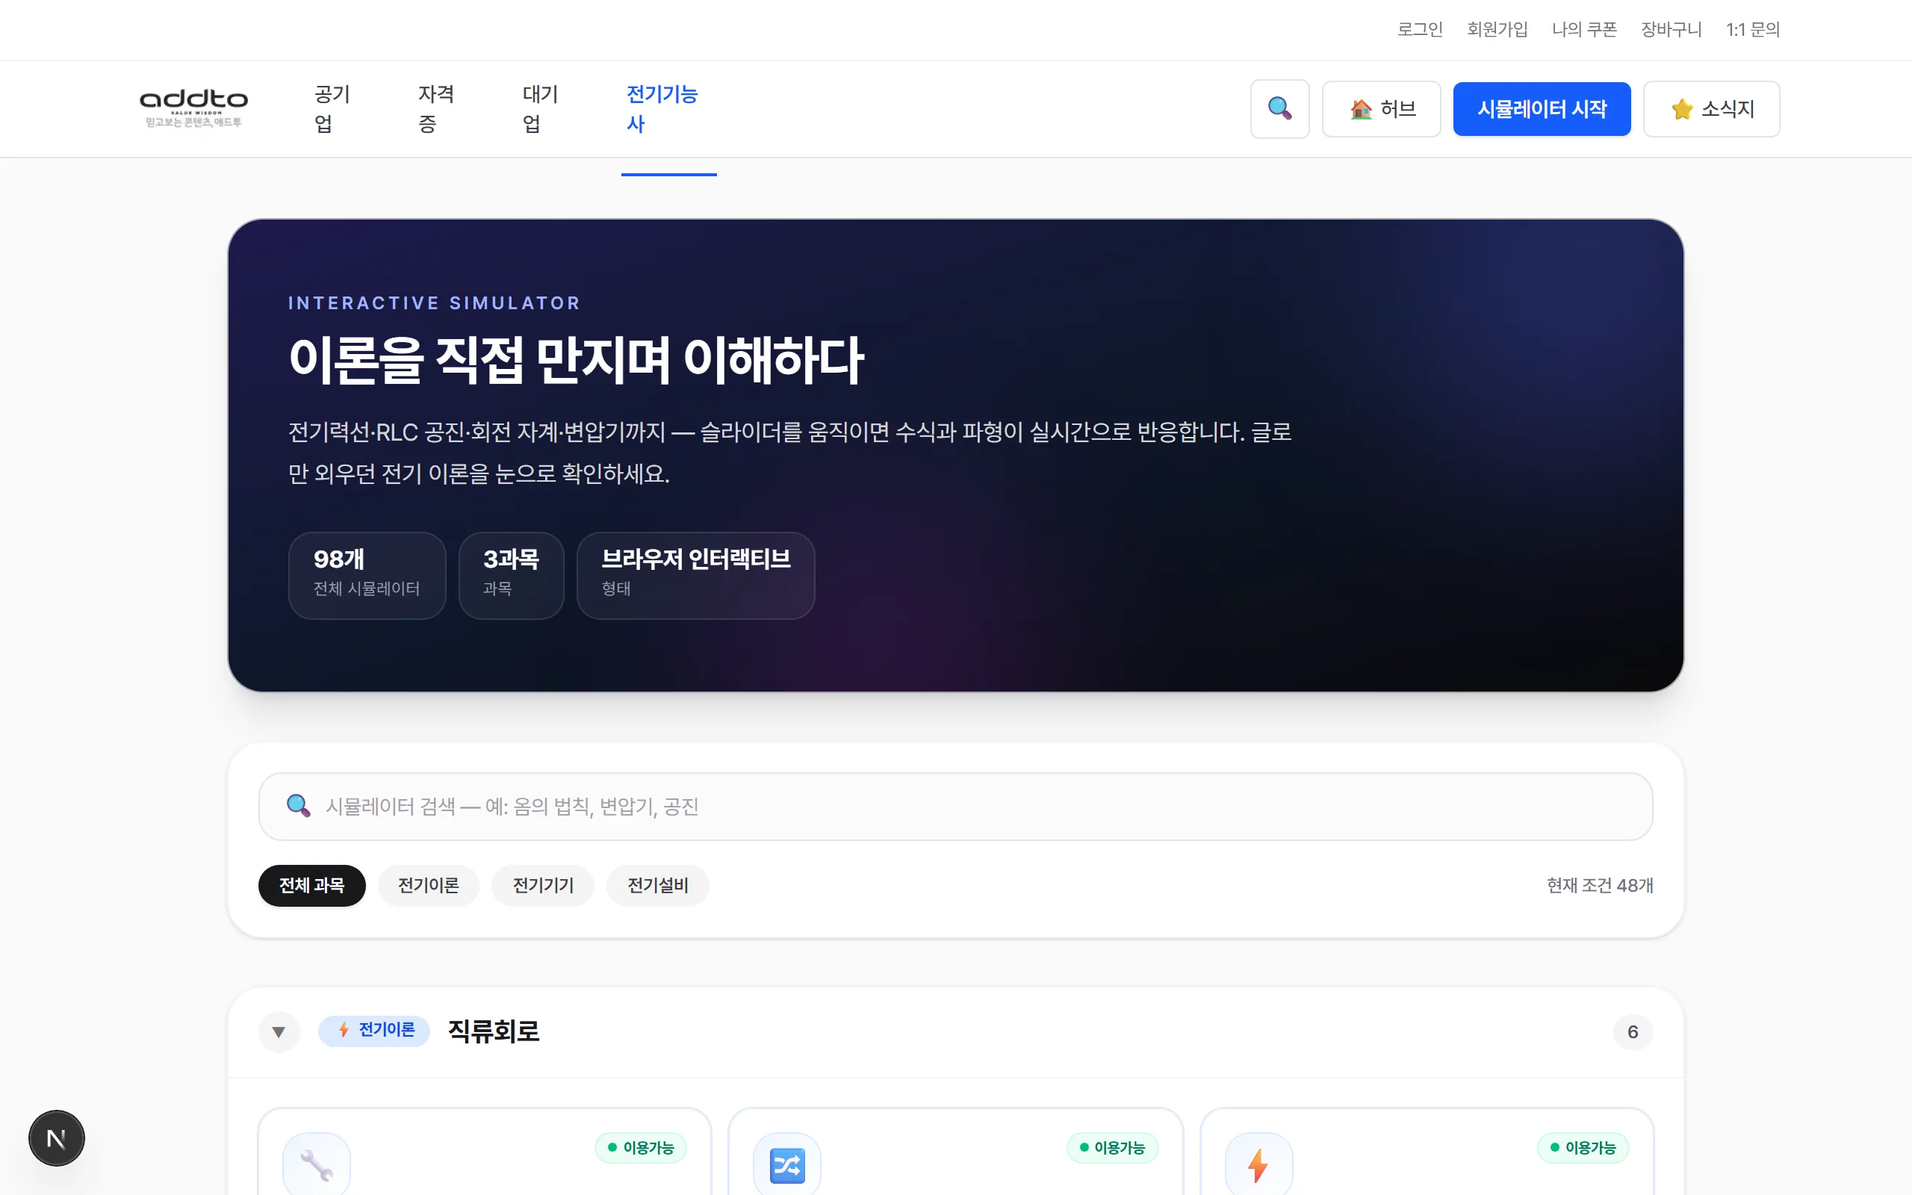
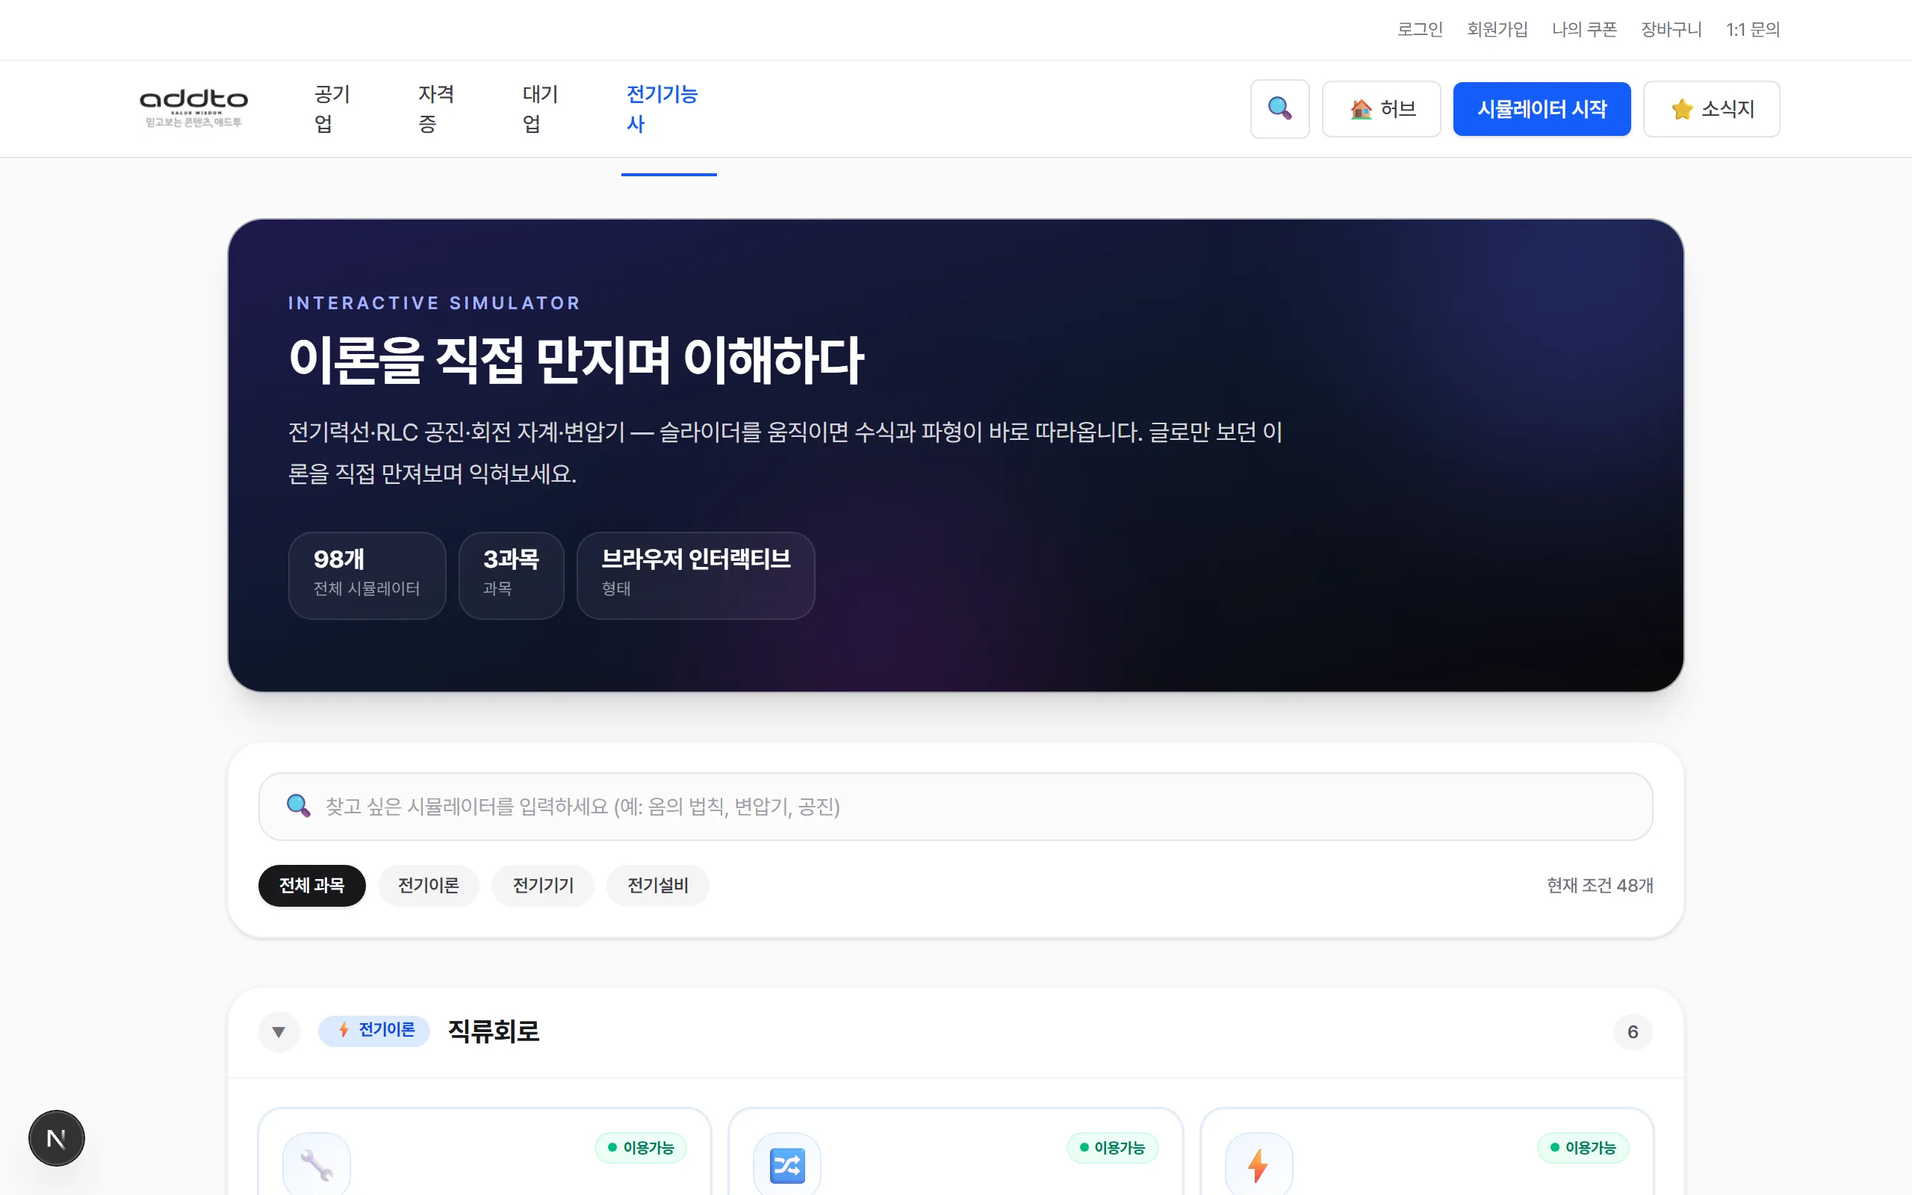
copy: 사용자 카피 톤 다듬기 — 자연스럽고 부드러운 문장으로
허브 페이지:
- 헤더 소개문: "흩어진 학습 콘텐츠의 한 입구" 같은 명사구 줄이고
  "~한 곳에서 만나보세요" "가볍게 시작하면 됩니다" 식의 권유체로
- 6개 카드 desc: 단편 명사구·formal 종결 → 부드러운 종결어와 자연스러운 흐름
  · simulator: "결과가 바로 따라옵니다"
  · news: "인스타·유튜브·신문처럼 익숙한 형태"
  · flipcard: "잊을 만하면 다시 꺼내줍니다"
  · cbt: "실전과 똑같은 환경에서 60문항을"
  · guide/stories: "준비하고 있어요" / "곧 공개할게요"

기능 소개 모달(HubCardInfoButton):
- description 4개 모두 자연스러운 톤으로 재작성
  · "실시간으로 반응" → "바로 바뀝니다 / 바로 따라옵니다"
  · "글로만 외우던 이론을 눈으로 확인하세요" → "글로만 보던 이론을 직접 만져보며"
  · "한 자리에서. 시험장 감각 점검" → "한 자리에서 끝납니다. 감 잡기 좋아요"
  · "친숙한 콘셉트로 재구성한 보조 채널" → "익숙한 형태로 다시 만나는 보조 채널"
- 모든 caption·tips: 명령형 → 권유/안내체

404 / 에러 페이지:
- "요청하신 페이지가 없습니다" → "찾으시는 페이지가 없습니다"
- "주소가 변경되었거나 더 이상 존재하지 않을 수 있습니다" → "바뀌었거나 사라졌을 수 있어요"
- "예기치 못한 오류가 발생했습니다" → "잠깐, 문제가 생겼어요"
- "문제가 지속되면 빠르게 수정하겠습니다" → "같은 화면이 계속 보이면 살펴보겠습니다"

기타:
- SimulatorList 히어로 본문 카피 일관성 맞춤
- 시뮬 검색 placeholder: "검색 — 예:" → "찾고 싶은 ... (예:)"
- SearchModal "곧 출시됩니다" → "준비 중이에요"
- TextbookPopup 마이크로카피 2건

스샷 재캡처 (UI 카피 반영).

Changed region(s): [[0.1562, 0.3438, 0.6875, 0.4062], [0.1562, 0.6562, 0.4375, 0.6875]]

diff --git a/src/components/hub/HubCardInfoButton.tsx b/src/components/hub/HubCardInfoButton.tsx
@@ -11,23 +11,23 @@ const CONTENT: Record<string, FeatureModalContent> = {
     badge: "SIMULATOR",
     accent: "from-cyan-400 via-sky-500 to-indigo-700",
     description:
-      "전기력선·RLC 공진·회전 자계·변압기까지 — 슬라이더를 움직이면 수식과 파형이 실시간으로 반응합니다. 글로만 외우던 전기 이론을 눈으로 확인하세요. 총 98개 시뮬, 전기이론·전기기기·전기설비 전 과목 커버.",
+      "전기력선·RLC 공진·회전 자계·변압기 — 슬라이더를 움직이면 수식과 파형이 바로 바뀝니다. 글로만 보던 이론을 직접 만져보며 익혀보세요. 시뮬레이터 98개로 전기이론·전기기기·전기설비를 모두 다룹니다.",
     shots: [
       {
         src: `${SHOTS}/simulator-list.webp`,
         alt: "시뮬레이터 목록 화면",
-        caption: "98개 시뮬을 과목별로 탐색 + 검색",
+        caption: "과목별로 둘러보거나 검색으로 바로 찾기",
       },
       {
         src: `${SHOTS}/simulator-detail.webp`,
         alt: "옴의 법칙 시뮬 상세 화면",
-        caption: "예: 옴의 법칙 — 슬라이더로 V/R 조절, I·P 실시간 계산",
+        caption: "옴의 법칙 — 슬라이더로 V·R을 조절하면 I와 P가 곧바로 계산됩니다",
       },
     ],
     tips: [
-      "검색창에 \"공진\", \"옴\" 등 키워드 입력 → 빠른 탐색",
-      "각 시뮬 페이지에 예제·공식·설명이 함께 표시",
-      "전과목 필터로 분야별 시뮬 좁히기",
+      "검색창에 '공진', '옴' 같은 키워드를 넣으면 빠르게 찾을 수 있어요",
+      "각 시뮬 페이지에는 예제·공식·설명이 함께 표시됩니다",
+      "과목 필터로 원하는 분야의 시뮬만 좁혀 보세요",
     ],
     href: "/simulator",
     cta: "시뮬레이터 열기",
@@ -37,18 +37,18 @@ const CONTENT: Record<string, FeatureModalContent> = {
     badge: "FLIPCARDS",
     accent: "from-pink-500 via-fuchsia-500 to-violet-600",
     description:
-      "전기기능사 핵심 343장. 앞면 문제 → 뒷면 해설로 빠르게 회독하세요. 진도 추적·과목 필터·복습 큐가 자동으로 관리됩니다.",
+      "전기기능사 핵심 343장을 앞면 문제 → 뒷면 해설로 빠르게 회독합니다. 진도와 과목 필터, 오늘 복습할 카드까지 알아서 챙겨줘요.",
     shots: [
       {
         src: `${SHOTS}/flashcards-deck.webp`,
         alt: "플립카드 학습 화면",
-        caption: "진도 0% → 343장 시작, 과목/카테고리 필터 지원",
+        caption: "진도 0%에서 출발해 과목·카테고리로 좁혀가며 학습",
       },
     ],
     tips: [
-      "카드 클릭(또는 Space) → 앞↔뒤 뒤집기",
-      "별·복습 필요 카테고리로 약점 카드 모아보기",
-      "오늘 복습 큐가 자동 우선순위 정렬",
+      "카드를 누르거나 Space 키로 앞뒤를 뒤집습니다",
+      "별표·복습 필요 카드만 모아 약점을 집중 공략하세요",
+      "오늘 복습할 카드는 자동으로 앞쪽에 모입니다",
     ],
     href: "/flashcards",
     cta: "암기카드 열기",
@@ -58,23 +58,23 @@ const CONTENT: Record<string, FeatureModalContent> = {
     badge: "CBT",
     accent: "from-blue-500 via-indigo-500 to-indigo-700",
     description:
-      "실전 시험과 동일한 환경에서 60문항 · 60분 타이머로 풀어보세요. 자동 채점·해설·약점 분석·오답 노트까지 한 자리에서. 시험장에 가기 전 실전 감각 점검.",
+      "실전 시험과 같은 환경에서 60문항·60분 타이머로 풀어보세요. 채점·해설·약점 분석·오답 노트까지 한 자리에서 끝납니다. 시험장 가기 전 감 잡기 좋아요.",
     shots: [
       {
         src: `${SHOTS}/cbt-landing.webp`,
         alt: "CBT 메인 화면",
-        caption: "CBT 허브 — 모의고사·학습·오답노트로 분기",
+        caption: "모의고사·학습·오답노트로 가는 입구",
       },
       {
         src: `${SHOTS}/cbt-exams.webp`,
         alt: "모의고사 목록 화면",
-        caption: "회차별 모의고사 선택 → 응시·재응시·결과 확인",
+        caption: "회차별로 골라 응시하거나 결과를 다시 볼 수 있습니다",
       },
     ],
     tips: [
-      "응시 중 우측 패널: 남은 시간·문항 진행도",
-      "응시 종료 후 오답만 모아 한 번에 복습",
-      "AI 해설(코치) — 환경변수 설정 시 활성",
+      "응시 중에는 우측 패널에서 남은 시간과 진행도를 확인할 수 있어요",
+      "끝난 뒤에는 오답만 모아 한 번에 복습할 수 있습니다",
+      "AI 해설(코치)은 환경변수 설정 시 사용 가능",
     ],
     href: "/cbt",
     cta: "CBT 풀기",
@@ -84,18 +84,18 @@ const CONTENT: Record<string, FeatureModalContent> = {
     badge: "NEWS",
     accent: "from-[#f9ce34] via-[#ee2a7b] to-[#6228d7]",
     description:
-      "같은 학습 내용을 인스타 피드·유튜브 채널·신문·잡지 등 50가지 친숙한 콘셉트로 재구성한 보조 채널. 딱딱한 이론을 친근한 매체로 한 번 더 만나며 자연스럽게 익숙해지세요.",
+      "같은 학습 내용을 인스타 피드·유튜브·신문·잡지 같은 50가지 익숙한 형태로 다시 만나는 보조 채널입니다. 딱딱한 이론도 친근한 매체로 한 번 더 보면 자연스럽게 손에 익어요.",
     shots: [
       {
         src: `${SHOTS}/news-list.webp`,
         alt: "소식지 목록 화면",
-        caption: "50개 콘셉트를 카드로 — 끌리는 것부터 클릭",
+        caption: "50개 콘셉트가 카드로. 끌리는 것부터 가볍게 들춰보세요",
       },
     ],
     tips: [
-      "한 콘셉트당 1~2분 소요 — 부담 없이 틈틈이",
-      "본 학습(시뮬·플립·CBT)의 보조용",
-      "재방문 시 '이미 본 것 접기' 자동 적용",
+      "한 콘셉트당 1~2분이면 충분해요. 틈틈이 가볍게 보기 좋습니다",
+      "메인 학습(시뮬·플립·CBT)을 보조하는 용도로 활용하세요",
+      "다시 방문하면 이미 본 콘텐츠는 자동으로 접힙니다",
     ],
     href: "/news",
     cta: "소식지 보기",

diff --git a/src/app/hub/page.tsx b/src/app/hub/page.tsx
@@ -31,7 +31,7 @@ const cards: HubCard[] = [
     id: "simulator",
     title: "인터랙티브 시뮬레이터",
     subtitle: "Simulator · 지금 이용 가능",
-    desc: "전기력선·변압기·회전 자계·RLC 위상 등 손으로 만져보는 시뮬. 슬라이더를 움직이면 즉시 반응합니다.",
+    desc: "전기력선·변압기·회전 자계·RLC 위상까지 직접 만져보는 시뮬레이터. 슬라이더를 움직이면 결과가 바로 따라옵니다.",
     href: "/simulator",
     status: "live",
     badge: "SIMULATOR",
@@ -60,7 +60,7 @@ const cards: HubCard[] = [
     id: "news",
     title: "별의 소식지",
     subtitle: "News · 지금 이용 가능",
-    desc: "인스타 피드·유튜브 채널·신문 — 같은 학습 내용을 50가지 친숙한 콘셉트로 다시 만나는 보조 채널.",
+    desc: "인스타·유튜브·신문처럼 익숙한 50가지 형태로 같은 학습 내용을 한 번 더 만나는 보조 채널입니다.",
     href: "/news",
     status: "live",
     badge: "NEWS",
@@ -80,7 +80,7 @@ const cards: HubCard[] = [
     id: "flipcard",
     title: "플립 암기카드",
     subtitle: "Flashcards · 지금 이용 가능",
-    desc: "전기기능사 핵심 343장. 앞면 문제 → 뒷면 해설. SRS(간격 반복) 알고리즘으로 잊을 때쯤 다시.",
+    desc: "전기기능사 핵심 343장을 앞면 문제 → 뒷면 해설로. SRS 간격 반복으로 잊을 만하면 다시 꺼내줍니다.",
     href: "/flashcards",
     status: "live",
     badge: "FLIPCARDS",
@@ -106,7 +106,7 @@ const cards: HubCard[] = [
     id: "cbt",
     title: "CBT 모의고사",
     subtitle: "CBT · 지금 이용 가능",
-    desc: "실전 환경 60문항. 시간 측정·자동 채점·약점 분석까지. 시험장 그대로의 인터페이스로 연습.",
+    desc: "실전과 똑같은 환경에서 60문항을 풀어보세요. 시간 측정·자동 채점·약점 분석까지 시험장 그대로입니다.",
     href: "/cbt",
     status: "live",
     badge: "CBT",
@@ -131,7 +131,7 @@ const cards: HubCard[] = [
     id: "guide",
     title: "학습 가이드",
     subtitle: "Guide · 준비 중",
-    desc: "시험 일정·과목 구성·합격 전략·학습 루틴. 처음 시작하는 분을 위한 안내문 (작성 중).",
+    desc: "시험 일정과 과목 구성, 합격 전략, 학습 루틴까지. 처음 시작하는 분을 위한 안내문을 준비하고 있어요.",
     href: "#",
     status: "soon",
     badge: "GUIDE",
@@ -152,7 +152,7 @@ const cards: HubCard[] = [
     id: "stories",
     title: "합격 후기",
     subtitle: "Stories · 준비 중",
-    desc: "이 사이트로 공부해 합격한 분들의 이야기. 학습 루틴·실수담·꿀팁 모음 (작성 중).",
+    desc: "이 사이트로 공부해 합격하신 분들의 이야기. 학습 루틴·실수담·꿀팁을 모아 곧 공개할게요.",
     href: "#",
     status: "soon",
     badge: "STORIES",
@@ -197,8 +197,8 @@ export default function HubPage() {
               전기기능사 학습 허브
             </h1>
             <p className="mt-3 max-w-2xl text-sm leading-7 text-zinc-700 [text-shadow:0_1px_3px_rgba(255,255,255,0.7)] sm:text-base">
-              시뮬레이터·소식지·플립카드·CBT — 흩어진 학습 콘텐츠의 한 입구.
-              지금 이용 가능한 것부터 바로 시작하세요.
+              시뮬레이터·소식지·플립카드·CBT까지 한 곳에서 만나보세요.
+              지금 바로 쓸 수 있는 것부터 가볍게 시작하면 됩니다.
             </p>
           </div>
         </header>
@@ -338,8 +338,8 @@ export default function HubPage() {
 
         {/* 하단 안내 */}
         <p className="mt-10 rounded-2xl border border-dashed border-zinc-200 bg-white p-5 text-center text-xs leading-6 text-zinc-500">
-          🔗 <strong className="font-semibold text-zinc-700">시뮬레이터·소식지·플립카드·CBT</strong>
-          모두 같은 사이트 안에서 바로 열립니다. 학습 가이드·합격 후기는 준비 중입니다.
+          🔗 <strong className="font-semibold text-zinc-700">시뮬레이터·소식지·플립카드·CBT</strong>는
+          모두 같은 사이트 안에서 바로 열립니다. 학습 가이드와 합격 후기도 곧 추가될 예정이에요.
         </p>
       </main>
       <Footer />

diff --git a/src/components/SimulatorList.tsx b/src/components/SimulatorList.tsx
@@ -107,9 +107,9 @@ export default function SimulatorList({ simulators }: Props) {
             이론을 직접 만지며 이해하다
           </h1>
           <p className="mt-3 max-w-2xl text-sm leading-7 text-zinc-300 sm:text-base">
-            전기력선·RLC 공진·회전 자계·변압기까지 — 슬라이더를 움직이면 수식과
-            파형이 실시간으로 반응합니다. 글로만 외우던 전기 이론을 눈으로
-            확인하세요.
+            전기력선·RLC 공진·회전 자계·변압기 — 슬라이더를 움직이면 수식과
+            파형이 바로 따라옵니다. 글로만 보던 이론을 직접 만져보며
+            익혀보세요.
           </p>
           <div className="mt-6 flex flex-wrap gap-2">
             <Stat label="전체 시뮬레이터" value={`${simulators.length}개`} />
@@ -132,7 +132,7 @@ export default function SimulatorList({ simulators }: Props) {
             type="search"
             value={query}
             onChange={(e) => setQuery(e.target.value)}
-            placeholder="시뮬레이터 검색 — 예: 옴의 법칙, 변압기, 공진"
+            placeholder="찾고 싶은 시뮬레이터를 입력하세요 (예: 옴의 법칙, 변압기, 공진)"
             aria-label="시뮬레이터 검색"
             className="w-full rounded-2xl border border-zinc-200 bg-zinc-50/70 py-3 pl-11 pr-10 text-sm text-zinc-800 outline-none transition placeholder:text-zinc-400 focus:border-indigo-300 focus:bg-white focus:ring-4 focus:ring-indigo-100"
           />

diff --git a/src/components/SearchModal.tsx b/src/components/SearchModal.tsx
@@ -51,7 +51,7 @@ export default function SearchModal({ onClose }: { onClose: () => void }) {
             type="text"
             value={q}
             onChange={(e) => setQ(e.target.value)}
-            placeholder="시뮬레이터 이름·토픽 등 검색해 보세요"
+            placeholder="시뮬레이터 이름이나 토픽을 검색해 보세요"
             className="flex-1 bg-transparent text-base text-zinc-900 placeholder-zinc-400 outline-none"
           />
           <kbd className="hidden rounded border border-zinc-300 bg-zinc-50 px-1.5 py-0.5 text-[10px] font-semibold text-zinc-500 sm:inline-block">
@@ -71,11 +71,11 @@ export default function SearchModal({ onClose }: { onClose: () => void }) {
           {q.trim() ? (
             <div className="rounded-xl border border-dashed border-zinc-300 bg-zinc-50 p-8 text-center">
               <p className="text-sm text-zinc-600">
-                &ldquo;<strong className="text-zinc-900">{q}</strong>&rdquo; 검색
-                기능은 곧 출시됩니다.
+                &ldquo;<strong className="text-zinc-900">{q}</strong>&rdquo;에
+                대한 검색 기능은 준비 중이에요.
               </p>
               <p className="mt-2 text-xs text-zinc-500">
-                현재는 인기 키워드 / 빠른 이동만 사용 가능합니다.
+                지금은 인기 검색어와 빠른 이동만 사용할 수 있어요.
               </p>
             </div>
           ) : (

diff --git a/src/app/not-found.tsx b/src/app/not-found.tsx
@@ -10,15 +10,15 @@ export default function NotFound() {
         <div className="max-w-md text-center">
           <div className="text-7xl">⚡</div>
           <p className="mt-4 text-sm font-semibold tracking-wide text-blue-600">
-            404 — 페이지를 찾을 수 없습니다
+            404 — 페이지를 찾을 수 없어요
           </p>
           <h1 className="mt-2 text-3xl font-bold text-zinc-900">
-            요청하신 페이지가 없습니다.
+            찾으시는 페이지가 없습니다
           </h1>
           <p className="mt-3 text-sm leading-6 text-zinc-600">
-            주소가 변경되었거나 더 이상 존재하지 않을 수 있습니다.
+            주소가 바뀌었거나 사라졌을 수 있어요.
             <br />
-            아래 메뉴에서 다시 시작해 보세요.
+            아래에서 원하는 곳으로 바로 이동해 보세요.
           </p>
 
           <div className="mt-8 flex flex-wrap justify-center gap-2">

diff --git a/src/components/TextbookFloatingPopup.tsx b/src/components/TextbookFloatingPopup.tsx
@@ -150,7 +150,7 @@ export default function TextbookFloatingPopup() {
           <button
             type="button"
             disabled
-            title="구매 페이지 준비중"
+            title="구매 페이지를 준비 중이에요"
             className="group relative mt-3 w-full cursor-not-allowed overflow-hidden rounded-md bg-gradient-to-r from-amber-500 via-orange-500 to-rose-500 px-3 py-2.5 text-sm font-bold text-white shadow-md"
           >
             교재 구매하러 가기 →
@@ -160,7 +160,7 @@ export default function TextbookFloatingPopup() {
           </button>
 
           <p className="mt-2 text-center text-[10px] text-zinc-500">
-            ※ 출시 알림은 회원가입 후 받아보실 수 있습니다.
+            ※ 회원가입을 하시면 출시 알림을 받아보실 수 있어요.
           </p>
 
           <div className="mt-3 flex items-center justify-between border-t border-zinc-100 pt-2">

diff --git a/src/app/error.tsx b/src/app/error.tsx
@@ -18,11 +18,11 @@ export default function GlobalError({
     <div className="flex min-h-screen flex-col items-center justify-center bg-zinc-50 px-6 text-center">
       <div className="text-7xl">⚠</div>
       <h1 className="mt-4 text-2xl font-bold text-zinc-900">
-        예기치 못한 오류가 발생했습니다
+        잠깐, 문제가 생겼어요
       </h1>
       <p className="mt-3 max-w-md text-sm leading-6 text-zinc-600">
-        잠시 후 다시 시도해 주세요. 문제가 지속되면 1:1 문의로 알려주시면 빠르게
-        수정하겠습니다.
+        잠시 후 다시 시도해 보세요. 같은 화면이 계속 보이면 1:1 문의로 알려
+        주시면 빠르게 살펴보겠습니다.
       </p>
       <div className="mt-8 flex flex-wrap gap-2">
         <button
